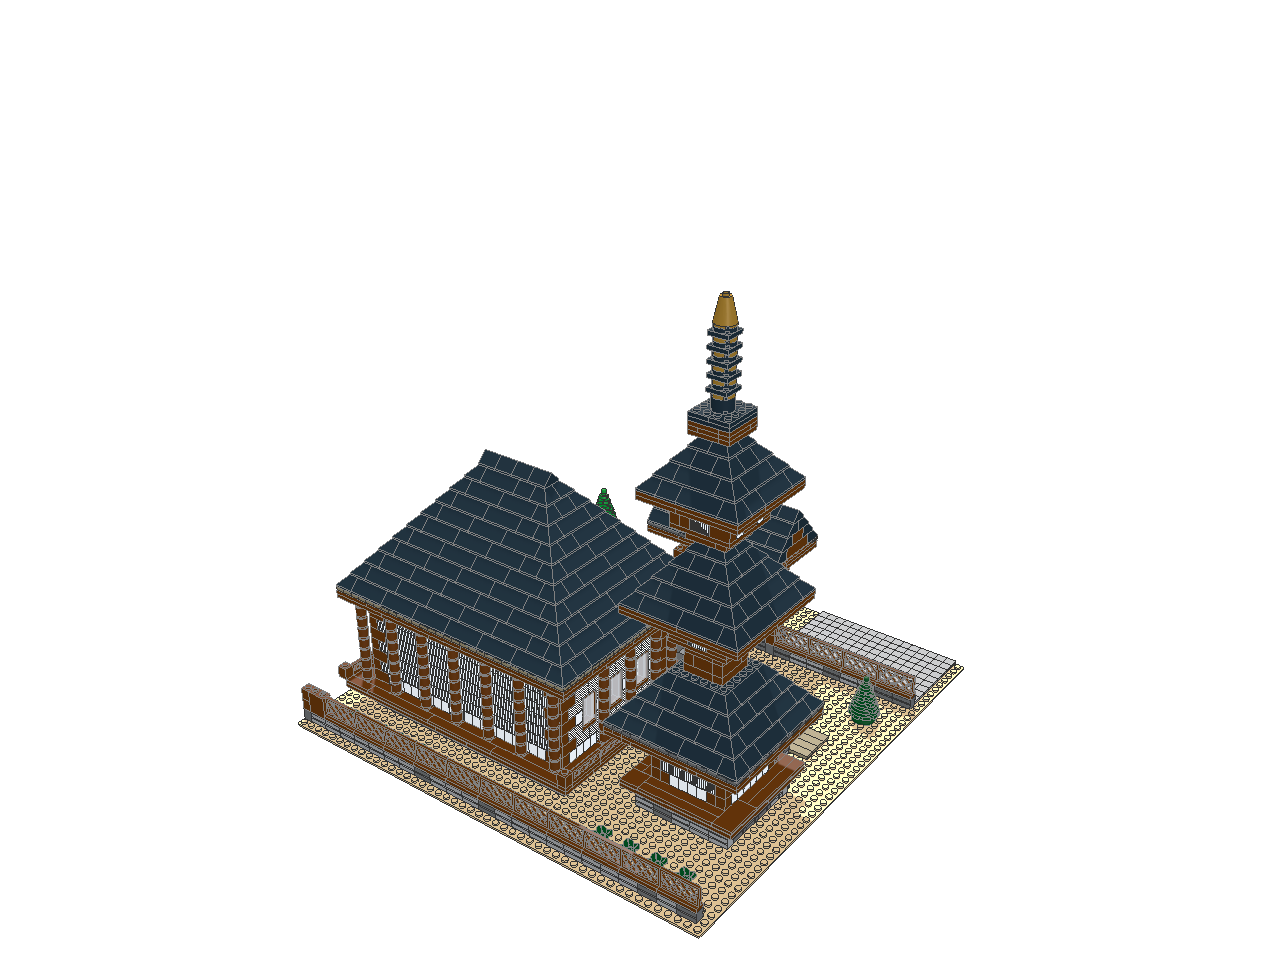
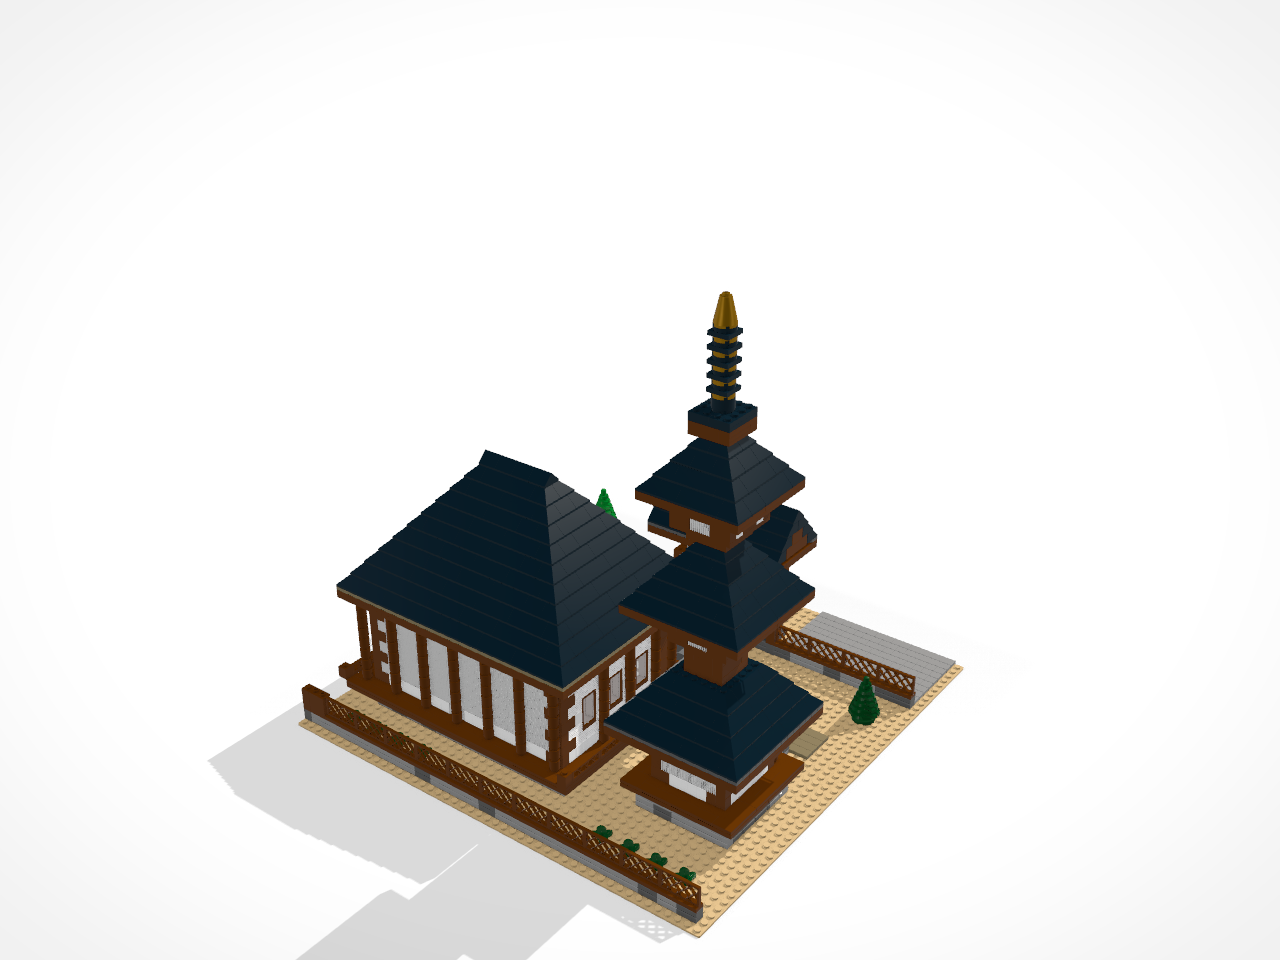
Show the temple samples in the Realistic look
All 30 views on both one-shot temple pages are re-rendered from the same scripts with --look realistic (studio lighting, soft shadows, backdrop) instead of the flat Standard look, and each page says so. The scripts and results are unchanged. The PNGs roughly double in size (7.7 MB to 14.7 MB for both samples) because of the shaded backdrop.

Claude-Session: https://claude.ai/code/session_01Jq7ZW33AGE6EfqsoeCjmhb

Changed region(s): [[0.1562, 0.3125, 0.75, 1.0]]

diff --git a/docs/samples/japanese-temple-one-shot/README.md b/docs/samples/japanese-temple-one-shot/README.md
@@ -10,7 +10,7 @@ npm run oneshot -- --target-parts 2000 --leeway 5 --brief "a japanese buddhist t
 - **Brief:** "a japanese buddhist temple". **Part range:** 1,900–2,100 (target 2,000 ± 5%).
 - **One pass, no tools.** The model got the [prompt](prompt.md) (the build-agent prompt without its tools section) and had to answer with the build script alone, through `codex exec` (codex-cli 0.159.0) with every tool off, a read-only sandbox and an empty folder. It could not compile, search parts or see a render.
 - **Repairs.** A reply that did not compile cleanly in range went back with its errors and the reply itself ("return ONLY a corrected JSON object"), up to 5 attempts. Only errors count: overlaps, `over-budget`, `under-budget`, invalid scripts. Warnings (floating parts, unavailable colours, part clashes) were accepted, as MineBench accepts its warnings.
-- **Renders** were made afterwards, for this page only.
+- **Renders** were made afterwards, for this page only, with the Realistic look (`--look realistic`).
 - **Rules at the time.** These runs predate the part list in the prompt, parts search and two compiler changes made afterwards: a part in a colour it is not made in became an error (every build here has 1–4 such parts: pearl-gold Round Brick 2 × 2, dark-brown lattice fences, dark-green Pine Tree Large…), and old numbers such as 4032 and 4073 are now built as 4032a and 6141. Recompiled today, these scripts fail on colour. The [rerun with the part list and search](../japanese-temple-one-shot-search/README.md) uses the new rules.
 
 ## Results

diff --git a/docs/samples/japanese-temple-one-shot-search/README.md b/docs/samples/japanese-temple-one-shot-search/README.md
@@ -14,7 +14,7 @@ What changed since the first run:
 - **Stricter compiler.** A part in a colour it is not made in is now an error (sent back like any other), and old numbers such as 4032 are built as the part they moved to.
 - **Provider retries.** The first xhigh and max runs were lost to the provider's "Selected model is at capacity" after 15 searches and 50–65 minutes; the runner now waits and retries such errors, and both were run again ([their results](xhigh/capacity-failure-result.json), [max](max/capacity-failure-result.json)).
 
-Everything else is as before: GPT-6.1-Sol through `codex exec` with every Codex tool off, 1,900–2,100 parts (2,000 ± 5%), repairs with the errors and the previous reply, warnings not sent back, renders made afterwards for this page only.
+Everything else is as before: GPT-6.1-Sol through `codex exec` with every Codex tool off, 1,900–2,100 parts (2,000 ± 5%), repairs with the errors and the previous reply, warnings not sent back, renders made afterwards for this page only, with the Realistic look (`--look realistic`).
 
 ## Results
 
